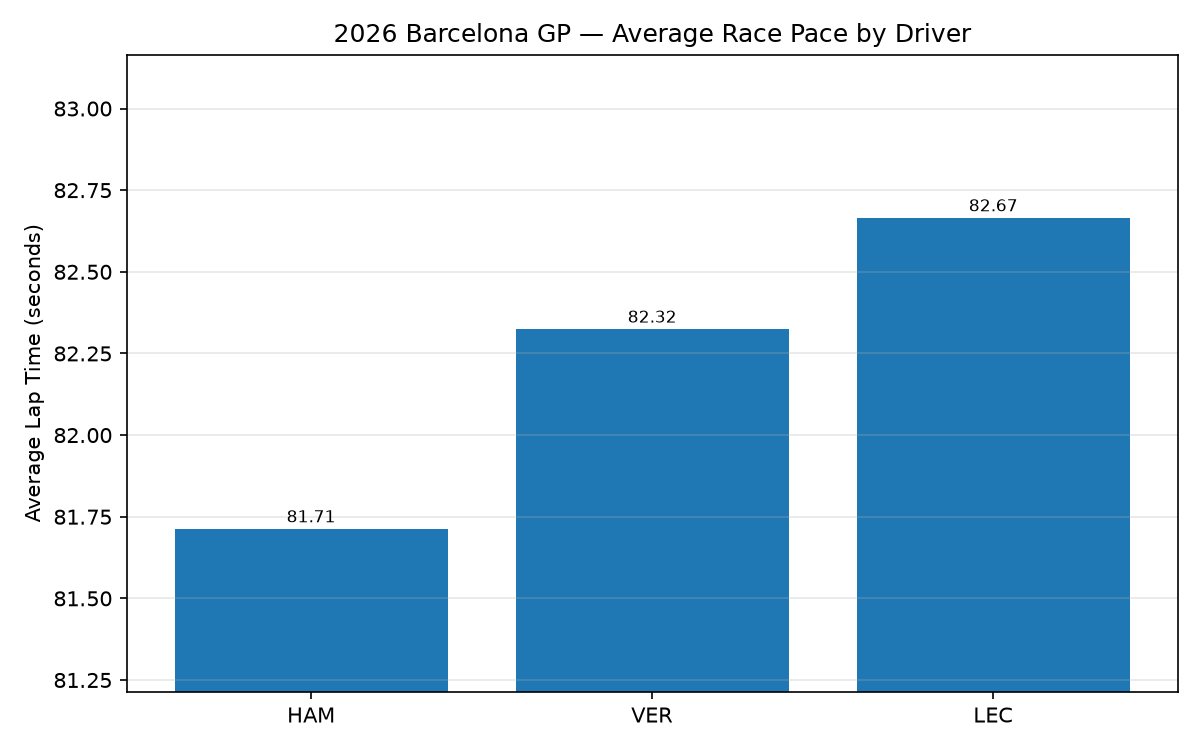
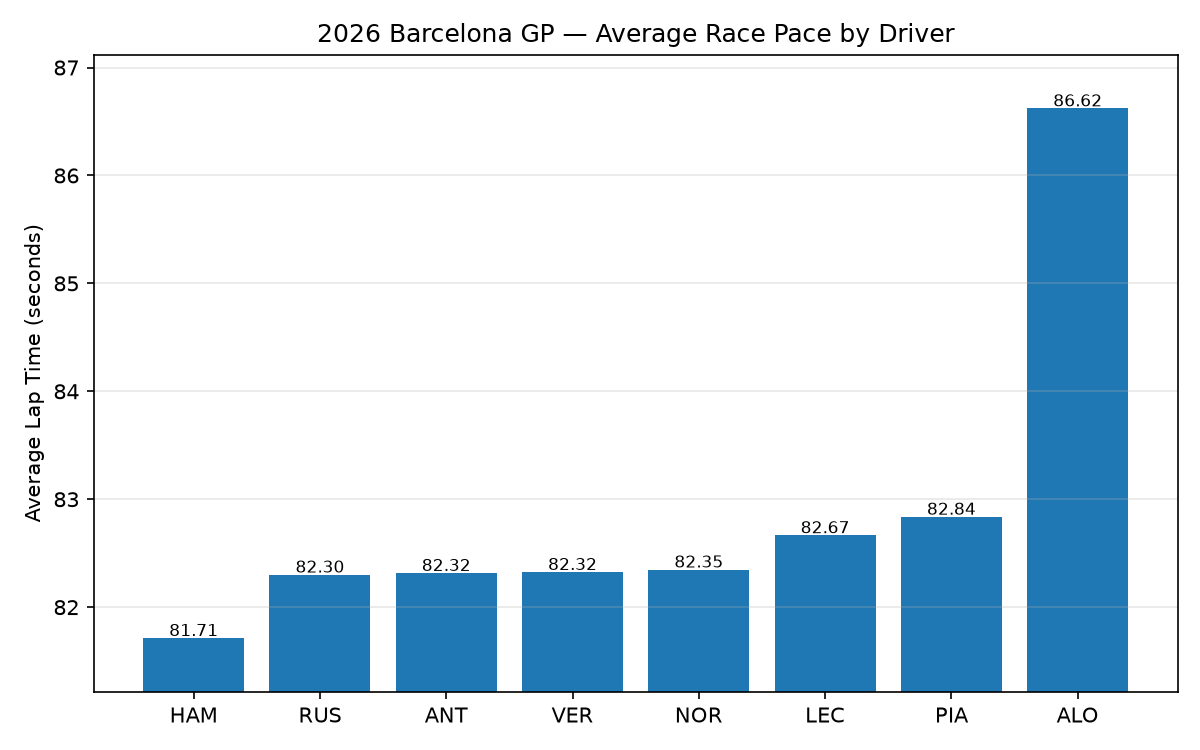
Add strategy timeline and average pace visualizations

diff --git a/f1_tyre_degradation_analysis.py b/f1_tyre_degradation_analysis.py
@@ -33,7 +33,7 @@ import matplotlib.pyplot as plt
 YEAR = 2026
 GRAND_PRIX = "Barcelona"     # e.g. "Monaco", "Singapore", "Silverstone"
 SESSION = "R"               # R = Race, Q = Qualifying, FP1/FP2/FP3 = Practice
-DRIVERS = ["VER", "HAM", "LEC"]   # driver 3-letter codes to compare, or None for all
+DRIVERS = ["VER", "HAM", "LEC" , "NOR" , "PIA" , "ALO" , "ANT" , "RUS"]   # driver 3-letter codes to compare, or None for all
 # ─────────────────────────────────────────────────────────────────────────
 
 os.makedirs("f1_cache", exist_ok=True)  # fastf1 requires this folder to exist first
